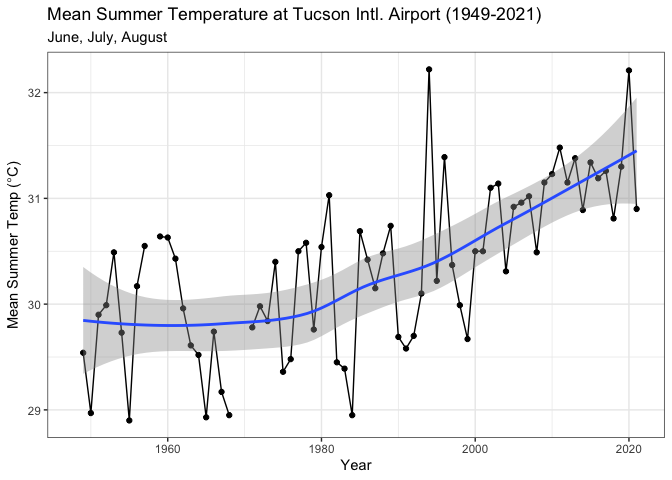
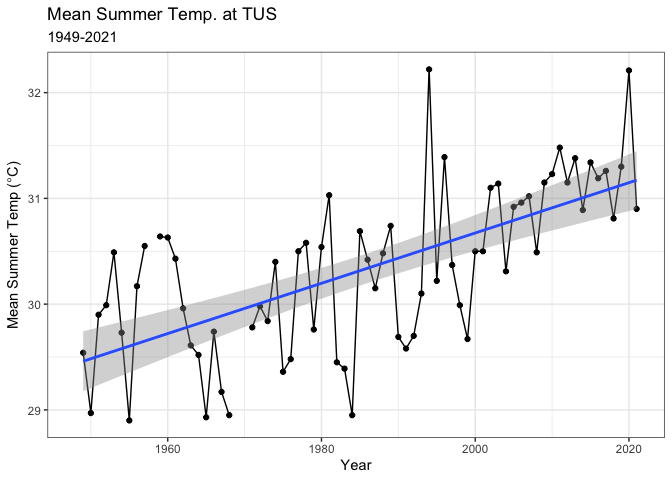
update col names and add a few additional comments

diff --git a/scripts/Instructional_demo.md b/scripts/Instructional_demo.md
@@ -54,13 +54,14 @@ there is no data, or NA. Let’s tell R to convert 999.9 to NAs.
 
 ``` r
 tucson <- read_csv("../data/Tucson_Intl_Airport_WS.csv",
-                   na = "999.9")
+                   na = "999.9") %>% 
+  rename(Summer = `J-J-A`, Year = YEAR)
 glimpse(tucson)
 ```
 
     ## Rows: 74
     ## Columns: 18
-    ## $ YEAR    <dbl> 1948, 1949, 1950, 1951, 1952, 1953, 1954, 1955, 1956, 1957, 19…
+    ## $ Year    <dbl> 1948, 1949, 1950, 1951, 1952, 1953, 1954, 1955, 1956, 1957, 19…
     ## $ JAN     <dbl> NA, 6.70, 10.84, 10.78, 11.56, 12.77, 12.55, 8.80, 14.03, 12.7…
     ## $ FEB     <dbl> NA, 10.75, 14.57, 12.64, 11.47, 11.80, 16.34, 9.95, 9.87, 16.8…
     ## $ MAR     <dbl> NA, 14.85, 16.54, 14.71, 12.07, 16.49, 15.75, 15.94, 16.26, 15…
@@ -75,7 +76,7 @@ glimpse(tucson)
     ## $ DEC     <dbl> 11.27, 11.21, 14.47, 11.43, 10.65, 9.83, 12.46, 13.67, 12.01, …
     ## $ `D-J-F` <dbl> NA, 9.57, 12.21, 12.63, 11.49, 11.74, 12.91, 10.40, 12.52, 13.…
     ## $ `M-A-M` <dbl> NA, 19.58, 20.13, 19.08, 18.84, 18.87, 21.10, 19.10, 19.89, 19…
-    ## $ `J-J-A` <dbl> NA, 29.54, 28.97, 29.90, 29.99, 30.49, 29.73, 28.90, 30.17, 30…
+    ## $ Summer  <dbl> NA, 29.54, 28.97, 29.90, 29.99, 30.49, 29.73, 28.90, 30.17, 30…
     ## $ `S-O-N` <dbl> NA, 22.27, 23.22, 22.50, 22.83, 22.74, 23.54, 22.45, 22.15, 20…
     ## $ metANN  <dbl> NA, 20.24, 21.13, 21.03, 20.79, 20.96, 21.82, 20.21, 21.18, 21…
 
@@ -87,7 +88,7 @@ is also monsoon season, so the humidity is higher. This *could* lead to
 humans.
 
 ``` r
-ggplot(data = tucson, aes(x = YEAR, y = `J-J-A`)) +
+ggplot(data = tucson, aes(x = Year, y = Summer)) +
   geom_point() 
 ```
 
@@ -96,13 +97,13 @@ ggplot(data = tucson, aes(x = YEAR, y = `J-J-A`)) +
 It’s a good start, but let’s make it better.
 
 ``` r
-ggplot(data = tucson, aes(x = YEAR, y = `J-J-A`)) +
+ggplot(data = tucson, aes(x = Year, y = Summer)) +
   geom_point() +
   geom_line() +
-  stat_smooth() +
+  stat_smooth(method = 'lm') +
   labs(
-    title = "Mean Summer Temperature at Tucson Intl. Airport (1949-2021)",
-    subtitle = "June, July, August",
+    title = "Mean Summer Temp. at TUS",
+    subtitle = "1949-2021",
     x = "Year",
     y = expression("Mean Summer Temp ("*degree*"C)")
   ) +
@@ -120,15 +121,15 @@ Now let’s extrapolate. When does the average summer temperature become
     prediction! This is simply an example of something you *can* do.
 
 ``` r
-temp <- ggplot(data = tucson, aes(x = YEAR, y = `J-J-A`)) +
+temp <- ggplot(data = tucson, aes(x = Year, y = Summer)) +
   geom_point() +
   geom_line() +
   geom_hline(yintercept = 35) + # 35 wet-bulb is too much
   xlim(1945, 2200) +
   stat_smooth(method = 'lm', fullrange = TRUE) +
   labs(
-    title = "Mean Summer Temperature at Tucson Intl. Airport (1949-2021)",
-    subtitle = "June, July, August",
+    title = "Mean Summer Temp. at TUS",
+    subtitle = "1949-2021",
     x = "Year",
     y = expression("Mean Summer Temp ("*degree*"C)")
   ) +
@@ -137,6 +138,7 @@ temp
 ```
 
 ![](Instructional_demo_files/figure-gfm/unnamed-chunk-7-1.png)<!-- -->
+
 Looks to be around the year 2180.
 
 Let’s make a map with Tucson highlighted so people know what location we
@@ -159,8 +161,9 @@ map <- ggplot(us_states) +
                fill = "white", color = "black") +
   coord_quickmap() + 
   geom_point(tucson_airport, mapping = aes(x = Longitude, y = Latitude), 
-             color = "red", size = 8, shape = 18) +
-  theme_bw()
+             color = "red", size = 5, shape = 18) +
+  theme_classic() +
+  theme(panel.border = element_rect(color = "black", fill = NA))
 map
 ```
 
@@ -170,14 +173,18 @@ We can plot these next to each other
 
 ``` r
 plot <- map + temp
+plot
 ```
+
+![](Instructional_demo_files/figure-gfm/unnamed-chunk-9-1.png)<!-- -->
 
 Maybe better way to incorporate the map is as an insert?
 
 ``` r
+# the ggdraw() and draw_plot() functions are from the `cowplot` package
 ggdraw() +
   draw_plot(temp) +
-  draw_plot(map, height = 0.3, width = 0.3, x = .68, y = 0.125)
+  draw_plot(map, height = 0.3, width = 0.3, x = 0.68, y = 0.125)
 ```
 
 ![](Instructional_demo_files/figure-gfm/unnamed-chunk-10-1.png)<!-- -->
@@ -186,17 +193,18 @@ Other extrapolation analysis options: ARIMA
 
 ``` r
 library(forecast)
+
 # time-series analysis
-summer_ts <- ts(tucson$`J-J-A`)
-model <- auto.arima(summer_ts)
-plot(forecast(model, h = 20))
+summer_ts <- ts(tucson$Summer)  # make temp data into a time series
+model <- auto.arima(summer_ts)  # find the best ARIMA for the data
+plot(forecast(model, h = 20))   # we can use the ARIMA to forecast 20 years out
 ```
 
 ![](Instructional_demo_files/figure-gfm/unnamed-chunk-11-1.png)<!-- -->
 
 ``` r
-plot(forecast(model, h = 200))
-abline(h = 35)
+plot(forecast(model, h = 200))  # also 200 years out
+abline(h = 35)                  # add a line that indicates our cut-off
 ```
 
 ![](Instructional_demo_files/figure-gfm/unnamed-chunk-11-2.png)<!-- -->
